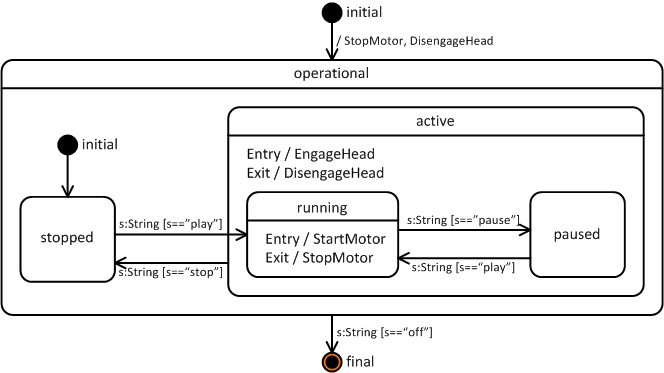
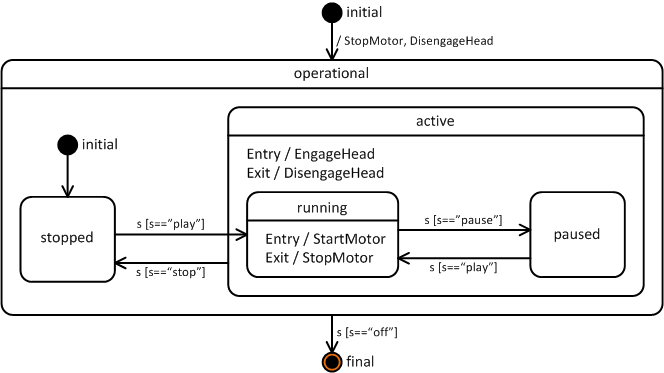
Exampe images reflect JavaScript machine better

diff --git a/examples/test.html b/examples/test.html
@@ -1,7 +1,7 @@
 <!DOCTYPE html>
 <html lang="en">
 	<head>
-		<title>state.js test 1</title>
+		<title>state.js example</title>
 		<script src="../src/state.js"></script>
 		<script>
 			// create the state machine
@@ -62,7 +62,7 @@
 		</script>
 	</head>
 	<body onload="player.Initialise()">
-		<h1>state.cs cassette controller example</h1>
+		<h1>state.js cassette controller example</h1>
 		<p>This example implements a simple controller for a cassette player according to the model below:</p>
 		<p><img id="diagram" src="controller_stopped.png" /></p>
 		<p>Press the buttons below to send events to the controller (check brower console for trace output):</p>
